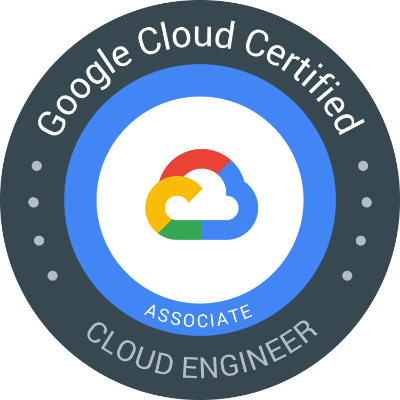
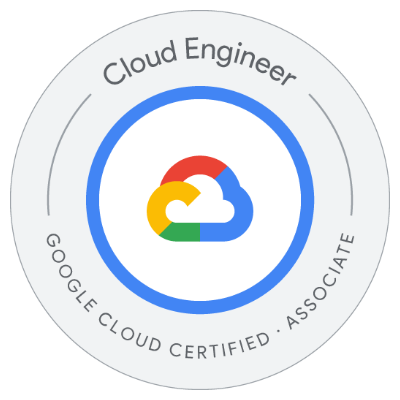
docs: cleanup and update skills

diff --git a/README.md b/README.md
@@ -1,14 +1,11 @@
 # Hello, World! 👋
 
-My name is Nasseredine Bajwa and I'm a Google Cloud Certified Associate Cloud Engineer. I live in France and I'm currently seeking opportunities in the field of Cloud Engineering, Data Engineering, or Data Science leveraging Google Cloud Platform services.
+My name is Nasseredine Bajwa and I live in France 🇫🇷.
+As a freelance Cloud DevOps Engineer, I help businesses deploy and manage their workloads at scale on Google Cloud with Kubernetes and modern automation (CI/CD, GitOps) with security and FinOps integrated at the architecture design stage.
 
-I am currently working on completing Udacity <a href="https://github.com/nasseredine/udacity-dend/blob/master/README.md">Data Engineering Nanodegree</a> capstone project.
-
-## Projects
-- <a href="https://github.com/nasseredine/udacity-dend/blob/master/README.md">Data Engineering Nanodegree projects</a>
-
-
-
+🗓 Available ASAP <br/>
+💻 Remote work with occasional travel <br/>
+🏅 Certified Google Cloud ☁ ACE, Certified Kubernetes and Cloud Native ⎈ KCNA and CKA <br/>
 
 ## Skills
 
@@ -17,29 +14,23 @@ I am currently working on completing Udacity <a href="https://github.com/nassere
 <p>
   <img src="https://img.shields.io/badge/-Google_Cloud_Platform-4285F4?style=flat-square&logo=google-cloud&logoColor=white" alt="Google Cloud Platform"/>
   <img src="https://img.shields.io/badge/-Kubernetes-326CE5?style=flat-square&logo=kubernetes&logoColor=white" alt="Kubernetes"/>
+  <img src="https://img.shields.io/badge/-Helm-091C84?style=flat-square&logo=helm&logoColor=white" alt="helm"/>
   <img src="https://img.shields.io/badge/-Docker-2496ED?style=flat-square&logo=docker&logoColor=white" alt="Docker"/>
+  <img src="https://img.shields.io/badge/-Terraform-623CE4?style=flat-square&logo=terraform&logoColor=white" alt="Terraform"/>
   <img src="https://img.shields.io/badge/-Python-3776AB?style=flat-square&logo=python&logoColor=white" alt="Python"/>
-  <img src="https://img.shields.io/badge/-PostgresSQL-336791?style=flat-square&logo=postgresql&logoColor=white" alt="PostgresSQL"/>
-  <img src="https://img.shields.io/badge/-Apache_Cassandra-1287B1?style=flat-square&logo=apache-cassandra&logoColor=white" alt="Apache Cassandra"/>
-  <img src="https://img.shields.io/badge/-Apache_Spark-E25A1C?style=flat-square&logo=apache-spark&logoColor=white" alt="Apache Spark"/>
   <img src="https://img.shields.io/badge/-Git-F05032?style=flat-square&logo=git&logoColor=white" alt="Git"/>
+  <img src="https://img.shields.io/badge/-GitLab-fca326?style=flat-square&logo=gitlab&logoColor=white" alt="GitLab"/>
   <img src="https://img.shields.io/badge/-Linux-FCC624?style=flat-square&logo=linux&logoColor=white" alt="Linux"/>
-  <img src="https://img.shields.io/badge/-Apache_Airflow-007A88?style=flat-square&logo=apache-airflow&logoColor=white" alt="Apache Airflow"/>
-  <img src="https://img.shields.io/badge/-GNU_Bash-4EAA25?style=flat-square&logo=gnu-bash&logoColor=white" alt="GNU Bash"/>
-  <img src="https://img.shields.io/badge/-Amazon_Web_Services-232F3E?style=flat-square&logo=amazon-aws&logoColor=white" alt="Apache Web Services"/>
 </p>
 
 ### Currently learning
 <p>
-  <img src="https://img.shields.io/badge/-GitHub_Actions-2088FF?style=flat-square&logo=github-actions&logoColor=white" alt="GitHub Actions"/>
-  <img src="https://img.shields.io/badge/-Terraform-623CE4?style=flat-square&logo=terraform&logoColor=white" alt="Terraform"/>
-  <img src="https://img.shields.io/badge/-Apache_Kafka-000000?style=flat-square&logo=apache-kafka&logoColor=white" alt="Apache Kafka"/>
+  <img src="https://img.shields.io/badge/-Istio-516ba9?style=flat-square&logo=istio&logoColor=white" alt="Istio"/>
 </p>
 
+## Certification badges
 
-## Google Cloud
-
-### Certification badges
+### Google Cloud
 
 <div>
   <p align="center">
@@ -49,39 +40,11 @@ I am currently working on completing Udacity <a href="https://github.com/nassere
   </p>
 </div>
 
-
-### Skill badges
-
-<div>
-  <p align="center">
-    <a href="https://www.qwiklabs.com/public_profiles/ab0f617c-b57f-4a42-96c8-4a3bb4a982bb/badges/329357" target="_blank">
-      <img src="https://raw.githubusercontent.com/nasseredine/nasseredine/master/images/gcp_skill_badges/gcp_skill_badge_create_and_manage_cloud_resources.png" width="175px" alt="Create and Manage Cloud Resources"/>
-    </a>
-    <a href="https://www.qwiklabs.com/public_profiles/ab0f617c-b57f-4a42-96c8-4a3bb4a982bb/badges/344080" target="_blank">
-      <img src="https://raw.githubusercontent.com/nasseredine/nasseredine/master/images/gcp_skill_badges/gcp_skill_badge_foundational_infrastructure.png" width="175px" alt="Foundational Infrastructure"/>
-    </a>
-    <a href="https://www.qwiklabs.com/public_profiles/ab0f617c-b57f-4a42-96c8-4a3bb4a982bb/badges/345669" target="_blank">
-      <img src="https://raw.githubusercontent.com/nasseredine/nasseredine/master/images/gcp_skill_badges/gcp_skill_badge_set_up_and_configure_cloud_environments.png" width="175px" alt="Set Up and Configure Cloud Environments"/>
-    </a>
-    <a href="https://www.qwiklabs.com/public_profiles/ab0f617c-b57f-4a42-96c8-4a3bb4a982bb/badges/467538" target="_blank">
-      <img src="https://raw.githubusercontent.com/nasseredine/nasseredine/master/images/gcp_skill_badges/gcp_skill_badge_deploy_to_kubernetes.png" width="175px" alt="Deploy to Kubernetes Skill"/>
-    </a>
-  </p>
-</div>
-
-
 <hr/>
 
 <div>
   <p align="center">
-    <a href="https://github.com/nasseredine" target="_blank"><img alt="GitHub" src="https://img.shields.io/badge/GitHub-%23181717.svg?style=for-the-badge&logo=GitHub&logoColor=white" /></a>
-    <a href="mailto:fr.bajwa.nasseredine@gmail.com" target="_blank"><img alt="Gmail" src="https://img.shields.io/badge/Gmail-%23D14836.svg?style=for-the-badge&logo=Gmail&logoColor=white" /></a>
     <a href="https://www.linkedin.com/in/nasseredine" target="_blank"><img alt="LinkedIn" src="https://img.shields.io/badge/LinkedIn-%230077B5.svg?style=for-the-badge&logo=LinkedIn&logoColor=white" /></a>
-    <a href="https://twitter.com/Nasseredine_B" target="_blank"><img alt="Twitter" src="https://img.shields.io/badge/Twitter-%231DA1F2.svg?style=for-the-badge&logo=Twitter&logoColor=white" /></a>
-  </p>
-  <p align="center">
     <a href="https://www.qwiklabs.com/public_profiles/ab0f617c-b57f-4a42-96c8-4a3bb4a982bb" target="_blank"><img alt="Qwiklabs" src="https://img.shields.io/badge/Qwiklabs-%23F5CD0E.svg?style=for-the-badge&logo=Qwiklabs&logoColor=white" /></a>
-    <a href="https://www.coursera.org/user/8fc607335fb5cbb0ca4e7f7e5b580e2e" target="_blank"><img alt="Coursera" src="https://img.shields.io/badge/Coursera-%232A73CC.svg?style=for-the-badge&logo=Coursera&logoColor=white" /></a>
-    <a href="https://www.hackerrank.com/nasseredine" target="_blank"><img alt="HackerRank" src="https://img.shields.io/badge/HackerRank-%232EC866.svg?style=for-the-badge&logo=HackerRank&logoColor=white" /></a>
   </p>
 </div>
